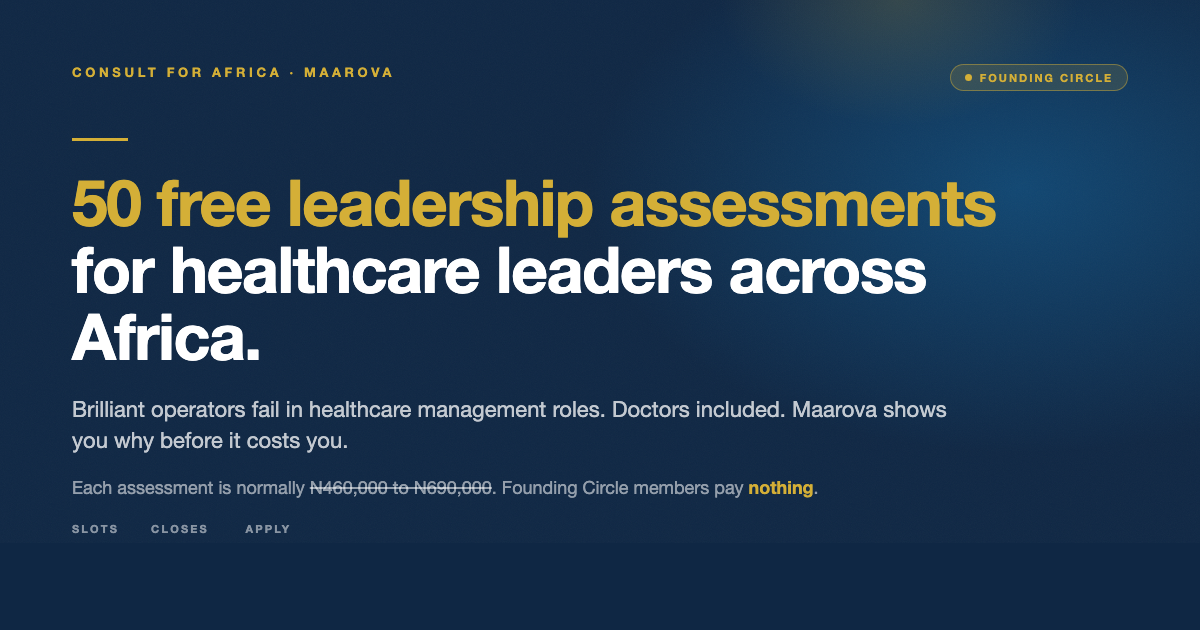
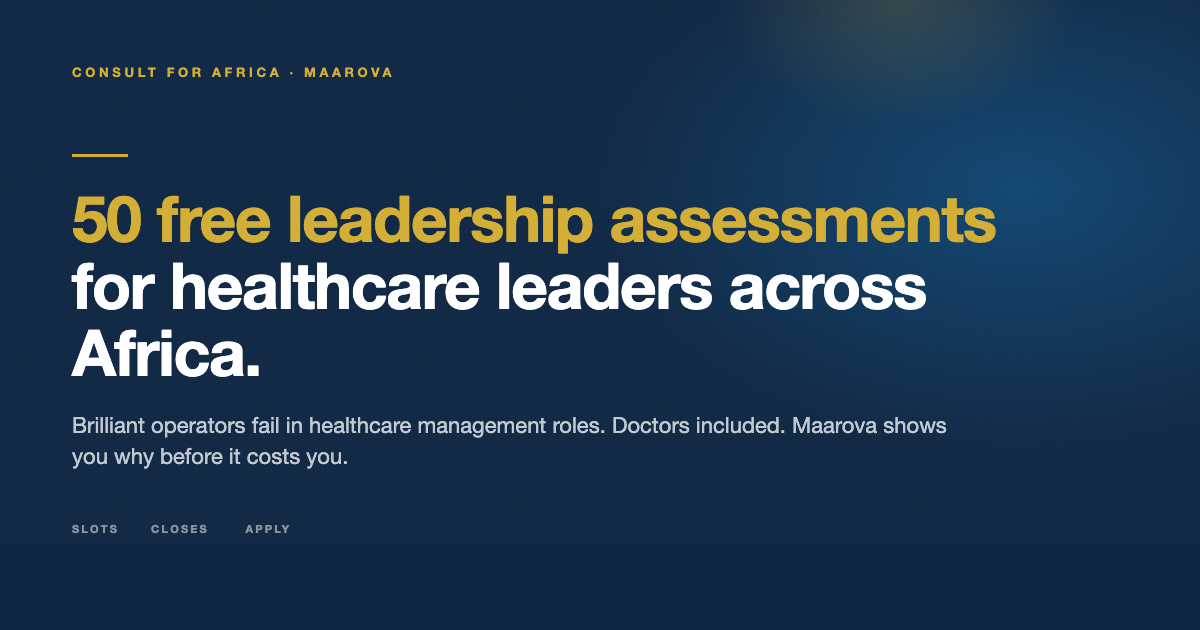
chore: simplify Maarova Circle share images (no pill, no price)
Removed the Founding Circle pill badge and the strikethrough pricing strip
from both LinkedIn share images, keeping the headline and zonal stats only.

Changed region(s): [[0.0617, 0.2111, 0.8325, 0.6032], [0.0617, 0.6333, 0.8017, 0.7841], [0.7708, 0.0905, 0.9558, 0.1508]]

diff --git a/docs/maarova-circle-linkedin.html b/docs/maarova-circle-linkedin.html
@@ -120,7 +120,6 @@
 <div class="container">
   <div class="top">
     <div class="brand">Consult For Africa &middot; Maarova</div>
-    <div class="badge"><span class="badge-dot"></span>Founding Circle</div>
   </div>
 
   <div>
@@ -131,9 +130,6 @@
     </h1>
     <p class="subline">
       Brilliant operators fail in healthcare management roles. Doctors included. Maarova shows you why before it costs you.
-    </p>
-    <p class="pricing-strip">
-      Each assessment is normally <s>N460,000 to N690,000</s>. Founding Circle members pay <strong>nothing</strong>.
     </p>
   </div>
 

diff --git a/docs/maarova-circle-square.html b/docs/maarova-circle-square.html
@@ -120,7 +120,6 @@
 <div class="container">
   <div class="top">
     <div class="brand">Consult For Africa &middot; Maarova</div>
-    <div class="badge"><span class="badge-dot"></span>Founding Circle</div>
   </div>
 
   <div>
@@ -131,9 +130,6 @@
     </h1>
     <p class="subline">
       Brilliant operators fail in healthcare management roles. Doctors included. Maarova shows you why before it costs you.
-    </p>
-    <p class="pricing-strip">
-      Each assessment is normally <s>N460,000 to N690,000</s>. Founding Circle members pay <strong>nothing</strong>.
     </p>
   </div>
 